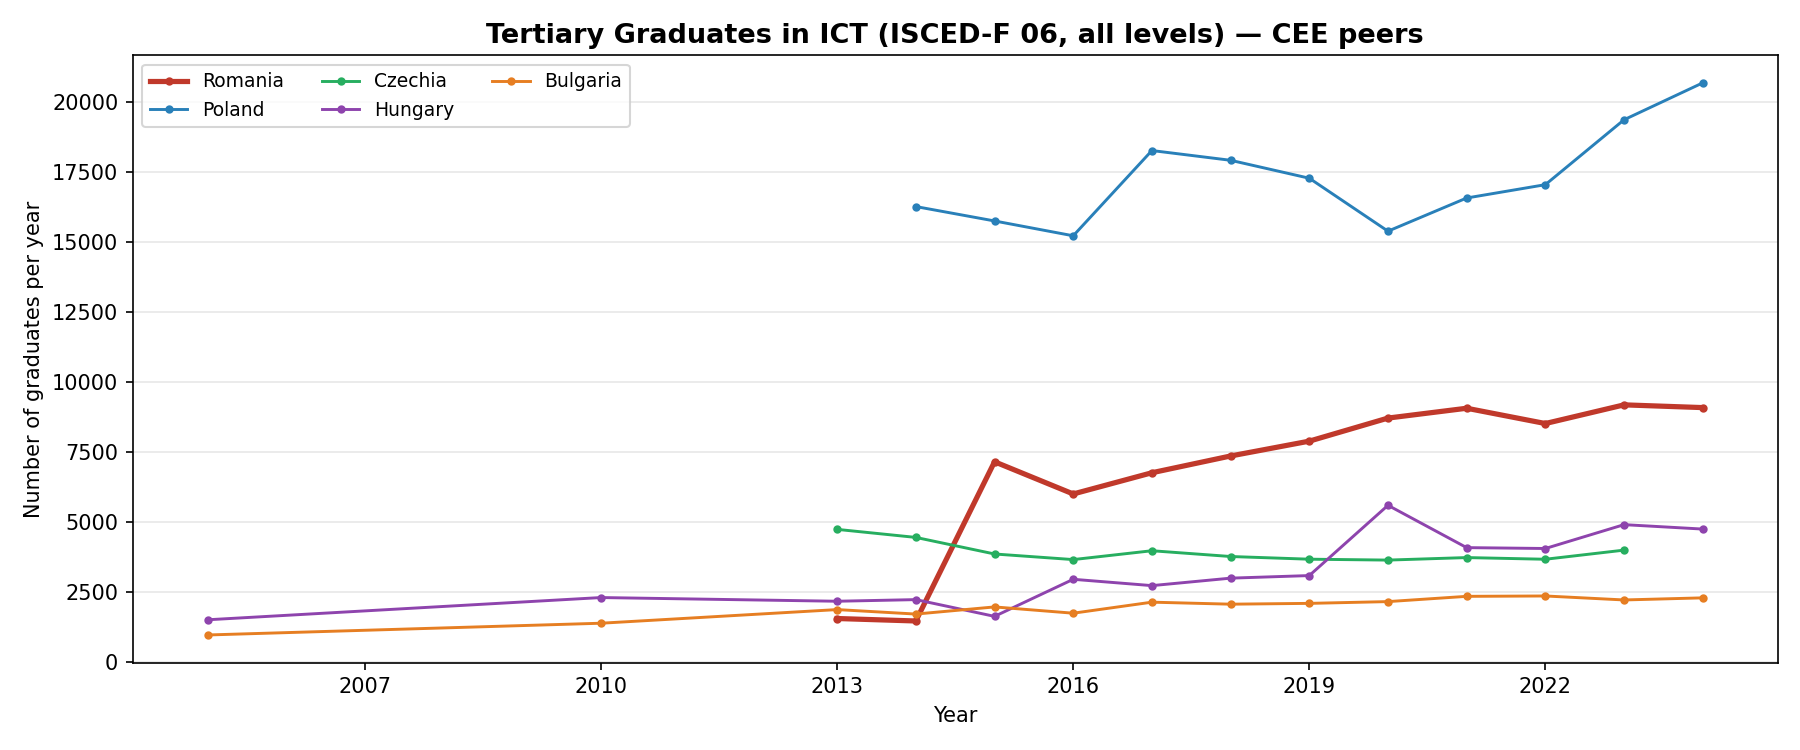
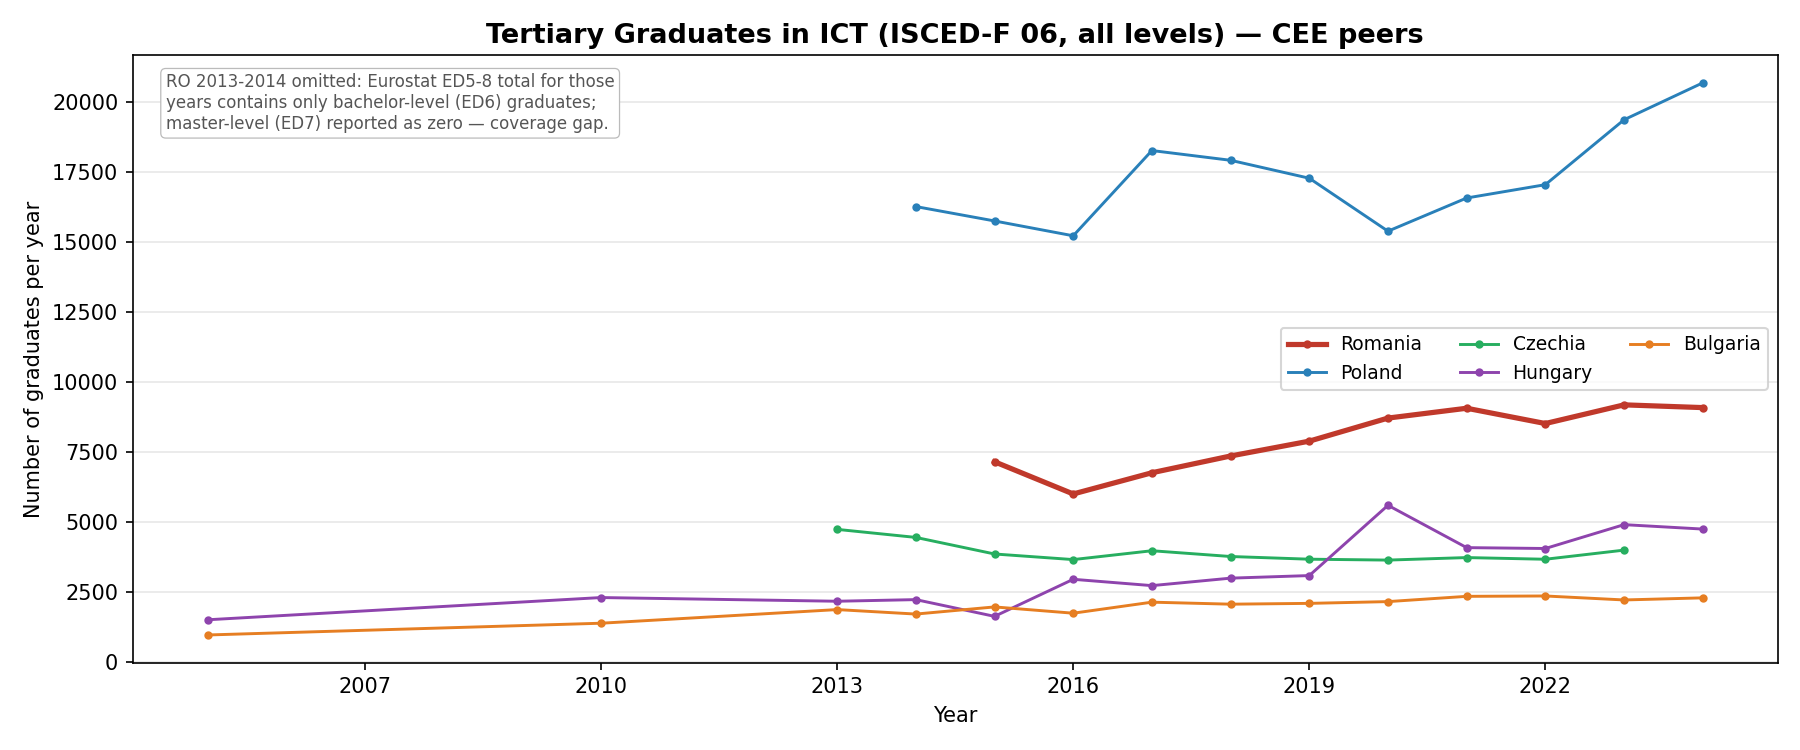
Drop RO 2013-2014 from chart 01b: Eurostat ED7 coverage gap
For Romania in 2013-2014, Eurostat's ED5-8 ICT-graduate aggregate
contained only bachelor-level (ED6) graduates — master-level (ED7)
was reported as zero, a coverage gap rather than an actual absence
of graduates. Dropping those two RO points avoids implying a 4x
supply jump in 2015 that did not happen. Other CEE peers verified
clean.

diff --git a/it-romania/01_origins.py b/it-romania/01_origins.py
@@ -137,13 +137,31 @@ try:
 
     # Drop EU27 from the country-level chart — it dwarfs CEE peers
     country_peers = [g for g in PEERS if g != "EU27_2020"]
+    # Romania's 2013-2014 ED5-8 totals contain only ED6 (bachelor's); ED7
+    # (master's) was reported as zero — a Eurostat coverage gap, not an
+    # actual absence of master's graduates. Drop those two RO points so the
+    # chart does not visually imply a 4x supply jump in 2015.
+    grads_plot = grads.copy()
+    if "RO" in grads_plot.columns:
+        for yr in (2013, 2014):
+            if yr in grads_plot.index:
+                grads_plot.loc[yr, "RO"] = float("nan")
+
     fig, ax = plt.subplots(figsize=(12, 5))
     for geo in country_peers:
-        if geo not in grads.columns:
+        if geo not in grads_plot.columns:
             continue
         lw = 2.5 if geo == "RO" else 1.4
-        ax.plot(grads.index, grads[geo], label=PEER_LABELS[geo],
+        ax.plot(grads_plot.index, grads_plot[geo], label=PEER_LABELS[geo],
                 color=COLORS[geo], linewidth=lw, marker="o", markersize=3)
+    ax.annotate(
+        "RO 2013-2014 omitted: Eurostat ED5-8 total for those\n"
+        "years contains only bachelor-level (ED6) graduates;\n"
+        "master-level (ED7) reported as zero — coverage gap.",
+        xy=(0.02, 0.97), xycoords="axes fraction",
+        fontsize=8, color="#555", va="top",
+        bbox=dict(boxstyle="round,pad=0.3", facecolor="white",
+                  edgecolor="#bbb", linewidth=0.6))
     ax.set_title("Tertiary Graduates in ICT (ISCED-F 06, all levels) — CEE peers",
                  fontsize=13, fontweight="bold")
     ax.set_xlabel("Year"); ax.set_ylabel("Number of graduates per year")

diff --git a/it-romania/report.md b/it-romania/report.md
@@ -25,11 +25,13 @@ Romania did not become a software exporter by accident. It inherited three thing
 
 The 1990s were the discovery phase: Softwin, Siveco and TotalSoft built early domestic firms; foreign clients arrived for low-wage arbitrage paired with strong language skills (English, French, German). The decisive policy choice came in 2001 — Romania granted a **0% income-tax rate** to employees working on qualifying software products. That single regulation, defended across governments of every political colour for two decades, made Romanian software unusually competitive on a take-home-pay basis for both employers and engineers.
 
-Eurostat tertiary-graduate series confirms the supply side. Romania's ICT graduate output grew sharply from EU accession in 2007:
+Eurostat tertiary-graduate series confirms the supply side. Romania's ICT graduate output rose from roughly 7,100 per year in 2015 to over **9,000 per year by 2024** — Poland is the only CEE country producing more, and Romania consistently produces more ICT graduates than Czechia, Hungary and Bulgaria combined:
 
 ![01b_ict_graduates.png](charts/01b_ict_graduates.png)
 
-ICT as a share of all tertiary graduates rose from roughly 4% in the late 2000s to around 8% by the early 2020s — high by EU standards and the second-highest growth trajectory in the CEE peer group.
+(Eurostat data note: Romania's 2013 and 2014 totals are omitted because the ED5-8 aggregate for those two years contains only bachelor-level graduates — master-level data was reported as zero, a coverage gap rather than an actual absence. The series becomes reliable from 2015 onwards, which is why the share chart below also starts in 2015.)
+
+ICT as a share of all tertiary graduates rose from roughly 4% in 2015 to around 8% by the early 2020s — high by EU standards and the second-highest growth trajectory in the CEE peer group.
 
 ![01d_ict_share_of_grads.png](charts/01d_ict_share_of_grads.png)
 
